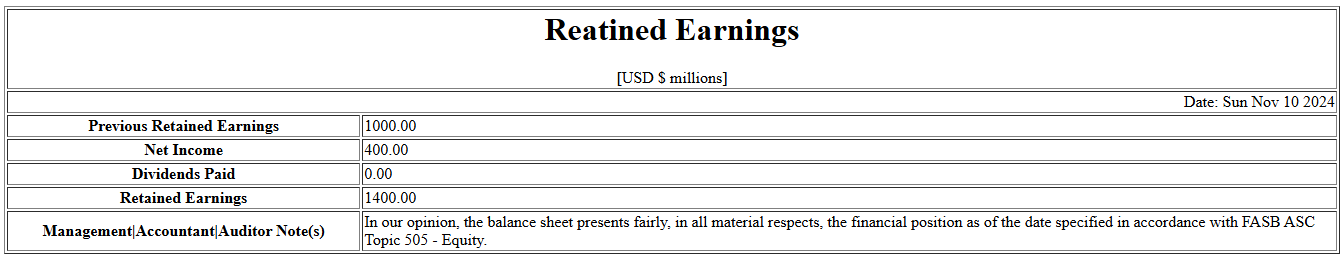
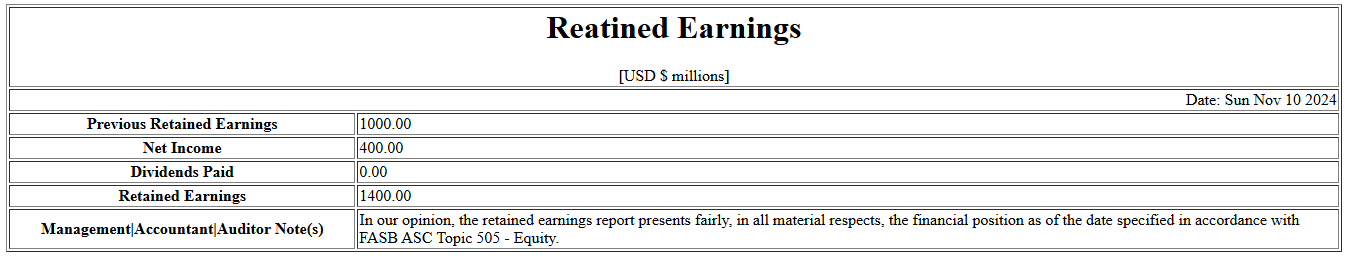
updated retsained earnings

Changed region(s): [[0.0, 0.2424, 1.0, 0.9697], [0.0, 0.0, 1.0, 0.1818]]

diff --git a/test/retainedearnings.test.js b/test/retainedearnings.test.js
@@ -87,22 +87,44 @@ describe('Create formatted Retained Earnings Report',function(){
     })
 
     it('should return the retained earnings',async function(){
+        const expected = [
+            {
+              beginning_retained_earnings: 1000,
+              net_income: 400,
+              dividends_paid: 0,
+              ending_retained_earnings: 1400
+            }
+        ];
         data = await report.retrieveReportDataSync(); 
-        //assert.equal(rows.length,2);
-        console.log(data)
+        assert.deepStrictEqual(data,expected);
     })
 
     it("should format data into array",async() => {
-        const notes = `In our opinion, the balance sheet presents fairly, in all material respects, the financial position as of the date specified in accordance with FASB ASC Topic 505 - Equity.`;
-
+        const notes = `In our opinion, the retained earnings report presents fairly, in all material respects, the financial position as of the date specified in accordance with FASB ASC Topic 505 - Equity.`;
+        const expected = {
+            date: 'Sun Nov 10 2024',
+            previous_retained_earnings: '1000.00',
+            net_income: '400.00',
+            dividends_paid: '0.00',
+            retained_earnings: '1400.00',
+            notes: 'In our opinion, the retained earnings report presents fairly, in all material respects, the financial position as of the date specified in accordance with FASB ASC Topic 505 - Equity.'
+        };
         formattedData = await report.formatArray(data,notes);
-        //const expected = `{"date":"${new Date().toDateString()}","lineItems":{"assets":[{"code":"100","name":"Cash","balance":"1000.00","type":"Asset"}],"liabilities":[{"code":"200","name":"COGS","balance":"350.00","type":"Liability"}],"expenses":[],"income":[],"equity":[]},"totalAsset":"1000.00","totalLiability":"350.00","totalIncome":"0.00","totalExpense":"0.00","totalEquity":"0.00","totalLiabilitiesShareholdersEquity":"350.00","notes":"In our opinion, the balance sheet presents fairly, in all material respects, the financial position as of the date specified in accordance with FASB ASC Topic 210, Balance Sheet."}`;
-        //assert.strictEqual(JSON.stringify(formattedData).trim(),expected.trim())
-        console.log(formattedData)
+        assert.deepStrictEqual(formattedData,expected);
     })
 
     it("should format array into xml",async () => {
+        const expected = `<?xml version='1.0'?>
+<retainedEarnings>
+    <date>Sun Nov 10 2024</date>
+    <previous_retained_earnings>1000.00</previous_retained_earnings>
+    <net_income>400.00</net_income>
+    <dividends_paid>0.00</dividends_paid>
+    <retained_earnings>1400.00</retained_earnings>
+    <notes>In our opinion, the retained earnings report presents fairly, in all material respects, the financial position as of the date specified in accordance with FASB ASC Topic 505 - Equity.</notes>
+</retainedEarnings>`;
         xml = await report.formatXml(formattedData);
+        assert.deepStrictEqual(xml,expected);
     });
 
     it("should save the xml to a file",async() => {
